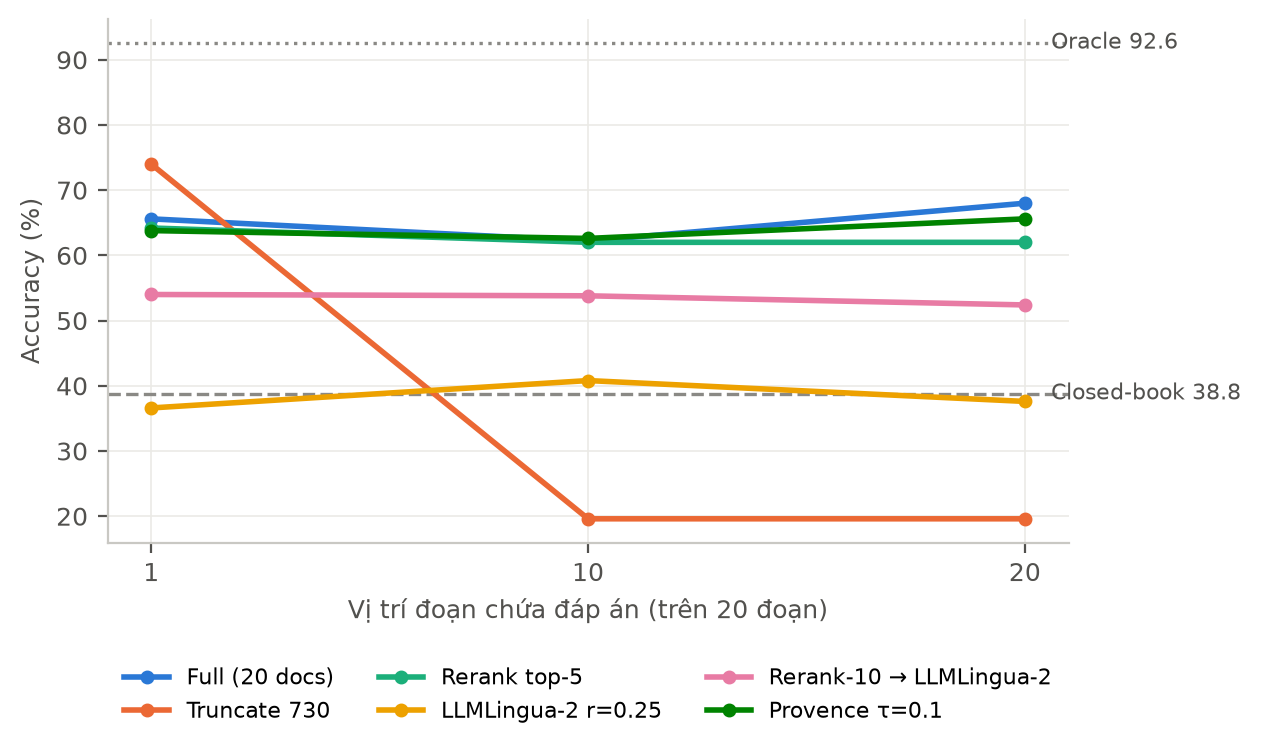
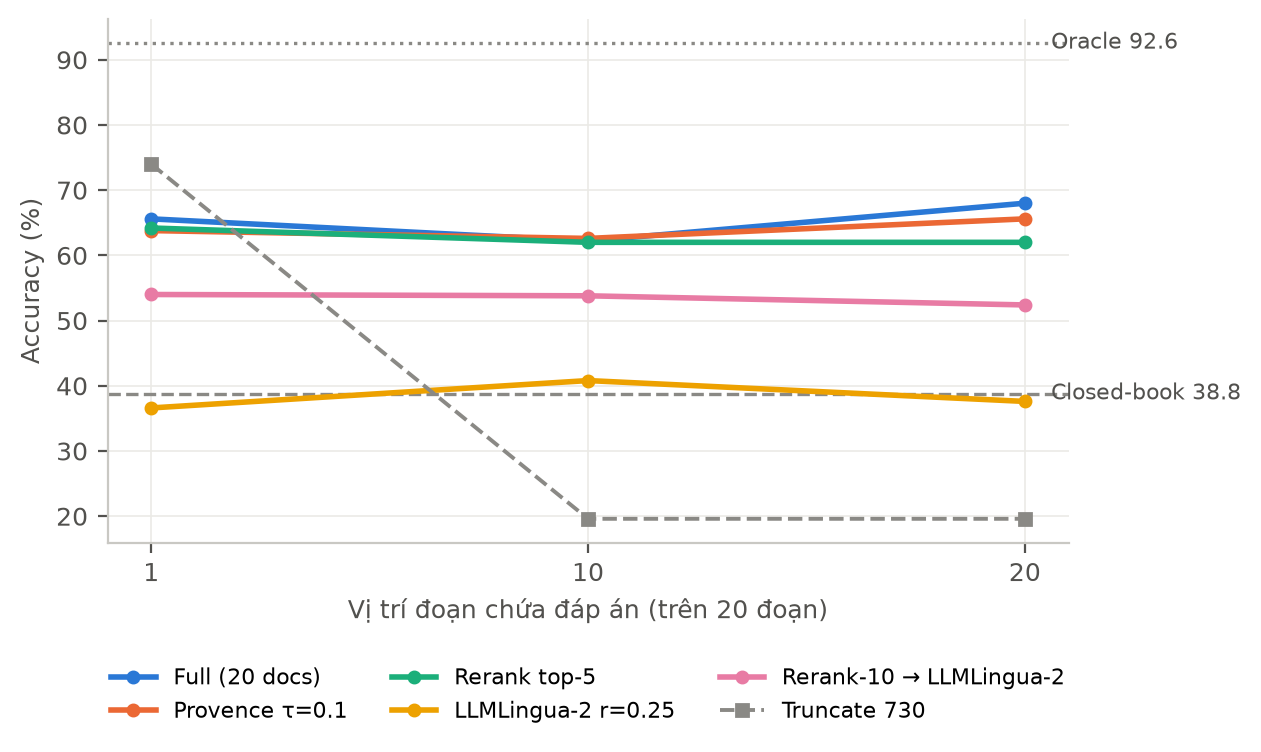
feat(figures): published comparison as deltas vs own baseline (paired for n=200 runs); clearer position/trade-off plots

diff --git a/scripts/make_figures.py b/scripts/make_figures.py
@@ -31,6 +31,7 @@ mpl.rcParams.update({
     "legend.frameon": False, "savefig.bbox": "tight", "savefig.dpi": 200,
 })  # fmt: skip
 
+BASE = "Full (20 docs)"
 MAIN_LLM = "qwen2.5-7b-instruct"  # reader of the main table; other readers go to soft_table()
 OP = "hotchpotch/open-provence-reranker-v1-gte-modernbert-base"
 
@@ -139,12 +140,13 @@ def write_latex(t: pd.DataFrame) -> None:
         lines.append(f"\\multicolumn{{9}}{{l}}{{\\textit{{{fam}}}}} \\\\")
         for name, r in sub.iterrows():
             accs = " & ".join(fmt(v) for v in r[POS_LABEL])
+            ratio = "--" if r.Token < 1 else f"{r['Nén']:.1f}$\\times$"
             tb = fmt(r.TB)
             if fam != "Tham chiếu" and abs(r.TB - best_tb) < 1e-9:
                 tb = f"\\best{{{tb}}}"
             lines.append(
                 f"\\quad {tex_name(name)} & {accs} & {tb} & {r.Token:.0f} & "
-                f"{r['Nén']:.1f}$\\times$ & {r.Recall:.1f} & {fmt(r.ms, 0)} \\\\"
+                f"{ratio} & {r.Recall:.1f} & {fmt(r.ms, 0)} \\\\"
             )
         lines.append("\\midrule")
     lines[-1] = "\\bottomrule"
@@ -187,30 +189,39 @@ PUBLISHED = [
 ]
 
 
-def published_table(df: pd.DataFrame, df200: pd.DataFrame) -> None:
+def published_table(df: pd.DataFrame) -> pd.DataFrame:
+    """Accuracy change vs. each side's own uncompressed baseline (published GPT-3.5 vs. ours).
+
+    Configs run on a different sample (LongLLMLingua, n=200) are compared on the questions they
+    share with the full-context run (paired), not against the n=500 mean.
+    """
     ours = pivot(df, "accuracy") * 100
-    ours200 = pivot(df200, "accuracy") * 100 if not df200.empty else pd.DataFrame()
-    lines = []
+    base_pub = PUBLISHED[0][2]
+    lines, out = [], []
     for key, pub_name, pub in PUBLISHED:
-        row = (
-            ours.loc[key]
-            if key in ours.index
-            else ours200.loc[key]
-            if key in ours200.index
-            else None
-        )
-        vals = [fmt(row[p]) if row is not None else "--" for p in POS]
-        lines.append(
-            f"{pub_name} & "
-            + " & ".join(f"{v:.1f}" for v in pub)
-            + f" & {tex_name(key)} & "
-            + " & ".join(vals)
-            + " \\\\"
-        )
+        if key == BASE:
+            row = [ours.loc[key, p] for p in POS]
+            pub_s = " & ".join(f"{v:.1f}" for v in pub)
+            our_s = " & ".join(fmt(v) for v in row)
+        else:
+            row = []
+            for p in POS:
+                ref, q = per_question(BASE, p), per_question(key, p, n=None)
+                if ref is None or q is None:
+                    row.append(float("nan"))
+                    continue
+                common = ref.index.intersection(q.index)
+                row.append(100 * (q.loc[common, "accuracy"].mean()
+                                  - ref.loc[common, "accuracy"].mean()))  # fmt: skip
+            pub_s = " & ".join(f"{v - b:+.1f}" for v, b in zip(pub, base_pub, strict=True))
+            our_s = " & ".join("--" if pd.isna(v) else f"{v:+.1f}" for v in row)
+        lines.append(f"{pub_name} & {pub_s} & {tex_name(key)} & {our_s} \\\\")
+        out.append({"published": pub_name, "ours": key, **dict(zip(POS_LABEL, row, strict=True))})
     (TAB / "published.tex").write_text("\n".join(lines) + "\n")
+    return pd.DataFrame(out)
 
 
-def per_question(method_label: str, pos: int) -> pd.DataFrame | None:
+def per_question(method_label: str, pos: int, n: int | None = 500) -> pd.DataFrame | None:
     """Per-question rows of the latest LLM run for a config label at a gold position."""
     for path in sorted((RESULTS_DIR / "compression").glob(f"*_gold{pos}.jsonl"), reverse=True):
         rows = [json.loads(x) for x in path.open()]
@@ -218,6 +229,8 @@ def per_question(method_label: str, pos: int) -> pd.DataFrame | None:
         run = r0["run_id"]
         summ = pd.read_csv(RESULTS_DIR / "compression" / "summary.csv")
         s = summ[(summ.run_id == run) & (summ.gold_pos == pos) & (summ.llm_model == MAIN_LLM)]
+        if n is not None:
+            s = s[s.n == n]
         if not s.empty and label(s.method.iloc[0], s.params.iloc[0]) == method_label:
             return pd.DataFrame(rows).set_index("qid")
     return None
@@ -233,7 +246,7 @@ def paired_bootstrap(a: pd.Series, b: pd.Series, iters: int = 10000, seed: int =
     return 100 * d.mean(), 100 * np.percentile(boots, 2.5), 100 * np.percentile(boots, 97.5)
 
 
-def significance(labels: list[str], base: str = "Full (20 docs)") -> pd.DataFrame:
+def significance(labels: list[str], base: str = BASE) -> pd.DataFrame:
     out = []
     for pos in POS:
         ref = per_question(base, pos)
@@ -287,9 +300,13 @@ def soft_table() -> pd.DataFrame | None:
 
 def fig_position(df: pd.DataFrame) -> None:
     acc = pivot(df, "accuracy") * 100
-    series = ["Full (20 docs)", "Truncate 730", "Rerank top-5", "LLMLingua-2 r=0.25",
-              "Rerank-10 → LLMLingua-2", "Provence τ=0.1"]  # fmt: skip
+    series = ["Full (20 docs)", "Provence τ=0.1", "Rerank top-5", "LLMLingua-2 r=0.25",
+              "Rerank-10 → LLMLingua-2"]  # fmt: skip
     series = [s for s in series if s in acc.index]
+    if "Truncate 730" in acc.index:
+        ax_trunc = acc.loc["Truncate 730"]
+    else:
+        ax_trunc = None
     fig, ax = plt.subplots(figsize=(6.2, 3.4))
     for ref, ls in (("Oracle", ":"), ("Closed-book", "--")):
         if ref in acc.index:
@@ -298,6 +315,9 @@ def fig_position(df: pd.DataFrame) -> None:
             ax.text(2.06, y, f"{ref} {y:.1f}", va="center", fontsize=8, color=INK2)
     for i, s in enumerate(series):
         ax.plot(range(len(POS)), acc.loc[s], color=C[i], marker="o", ms=4, label=s)
+    if ax_trunc is not None:
+        ax.plot(range(len(POS)), ax_trunc, color=GRAY, ls="--", marker="s", ms=4, lw=1.4,
+                label="Truncate 730")  # fmt: skip
     ax.set_xticks(range(len(POS)), POS_LABEL)
     ax.set_xlabel("Vị trí đoạn chứa đáp án (trên 20 đoạn)")
     ax.set_ylabel("Accuracy (%)")
@@ -318,9 +338,10 @@ def fig_tradeoff(t: pd.DataFrame) -> None:
     if "Full (20 docs)" in t.index:
         r = t.loc["Full (20 docs)"]
         ax.scatter(r.Token, r.TB, s=70, color=INK, marker="*", label="Full", zorder=3)
+    nudge = {"OpenProvence τ=0.1": (4, -9), "Truncate 730": (4, -9), "Rerank top-10": (-30, 6)}
     for name, r in t[t.family != "Tham chiếu"].iterrows():
         ax.annotate(name, (r.Token, r.TB), fontsize=6.5, color=INK2,
-                    xytext=(4, 2), textcoords="offset points")  # fmt: skip
+                    xytext=nudge.get(name, (4, 2)), textcoords="offset points")  # fmt: skip
     ax.set_xscale("log")
     ax.set_xlabel("Số token ngữ cảnh trung bình (log)")
     ax.set_ylabel("Accuracy trung bình 3 vị trí (%)")
@@ -413,11 +434,10 @@ def main() -> None:
     if not (RESULTS_DIR / "compression" / "summary.csv").exists():
         return
     df = load("compression")
-    df200 = load("compression", n=200)
     t = main_table(df)
     t.round(2).to_csv(RESULTS_DIR / "compression" / "main_table.csv")
     write_latex(t)
-    published_table(df, df200)
+    print(published_table(df).round(1).to_string())
     fig_position(df)
     fig_tradeoff(t)
     print(t.round(1).to_string())

diff --git a/docs/report/tables/published.tex b/docs/report/tables/published.tex
@@ -1,6 +1,6 @@
 Original prompt & 75.7 & 54.1 & 63.1 & Full (20 docs) & 65.6 & 62.2 & 68.0 \\
-BM25 (4$\times$) & 40.6 & 38.2 & 36.6 & BM25 top-5 & -- & 45.4 & -- \\
-SBERT (4$\times$) & 66.9 & 59.0 & 60.3 & Dense top-5 & -- & 56.0 & -- \\
-LLMLingua-2 (4$\times$) & 48.6 & 43.6 & 39.9 & LLMLingua-2 r=0.25 & 36.6 & 40.8 & 37.6 \\
-LLMLingua-2 + lọc tài liệu (4$\times$) & 74.0 & 67.0 & 65.3 & Rerank-10 $\rightarrow$ LLMLingua-2 & 54.0 & 53.8 & 52.4 \\
-LongLLMLingua (4$\times$) & 75.0 & 71.2 & 74.7 & LongLLMLingua 730t & -- & 64.0 & -- \\
+BM25 (4$\times$) & -35.1 & -15.9 & -26.5 & BM25 top-5 & -- & -16.8 & -- \\
+SBERT (4$\times$) & -8.8 & +4.9 & -2.8 & Dense top-5 & -- & -6.2 & -- \\
+LLMLingua-2 (4$\times$) & -27.1 & -10.5 & -23.2 & LLMLingua-2 r=0.25 & -29.0 & -21.4 & -30.4 \\
+LLMLingua-2 + lọc tài liệu (4$\times$) & -1.7 & +12.9 & +2.2 & Rerank-10 $\rightarrow$ LLMLingua-2 & -11.6 & -8.4 & -15.6 \\
+LongLLMLingua (4$\times$) & -0.7 & +17.1 & +11.6 & LongLLMLingua 730t & -- & +1.0 & -- \\

diff --git a/docs/report/tables/latency.tex b/docs/report/tables/latency.tex
@@ -1,7 +1,7 @@
-BM25 top-5 & -- & 2 & --$\times$ \\
-Rerank top-5 & -- & 196 & --$\times$ \\
-Dense top-5 & -- & 361 & --$\times$ \\
-OpenProvence $\tau$=0.1 & -- & 1598 & --$\times$ \\
+BM25 top-5 & 2 & 2 & 0.9$\times$ \\
+Rerank top-5 & 16 & 196 & 12.4$\times$ \\
+Dense top-5 & 26 & 361 & 13.7$\times$ \\
+OpenProvence $\tau$=0.1 & 77 & 1598 & 20.8$\times$ \\
 Provence $\tau$=0.1 & -- & 4906 & --$\times$ \\
 LLMLingua-2 r=0.5 & -- & 13104 & --$\times$ \\
 LongLLMLingua 730t & -- & 14837 & --$\times$ \\

diff --git a/docs/report/tables/main_results.tex b/docs/report/tables/main_results.tex
@@ -1,7 +1,7 @@
 \multicolumn{9}{l}{\textit{Tham chiếu}} \\
 \quad Full (20 docs) & 65.6 & 62.2 & 68.0 & 65.3 & 2875 & 1.0$\times$ & 100.0 & 0 \\
 \quad Oracle & 92.6 & 92.6 & 92.6 & 92.6 & 113 & 25.5$\times$ & 100.0 & 0 \\
-\quad Closed-book & 38.8 & 38.8 & 38.8 & 38.8 & 0 & 2874.3$\times$ & 0.2 & 0 \\
+\quad Closed-book & 38.8 & 38.8 & 38.8 & 38.8 & 0 & -- & 0.2 & 0 \\
 \midrule
 \multicolumn{9}{l}{\textit{Prompt}} \\
 \quad Truncate 730 & 74.0 & 19.6 & 19.6 & 37.7 & 730 & 3.9$\times$ & 44.0 & 0 \\
